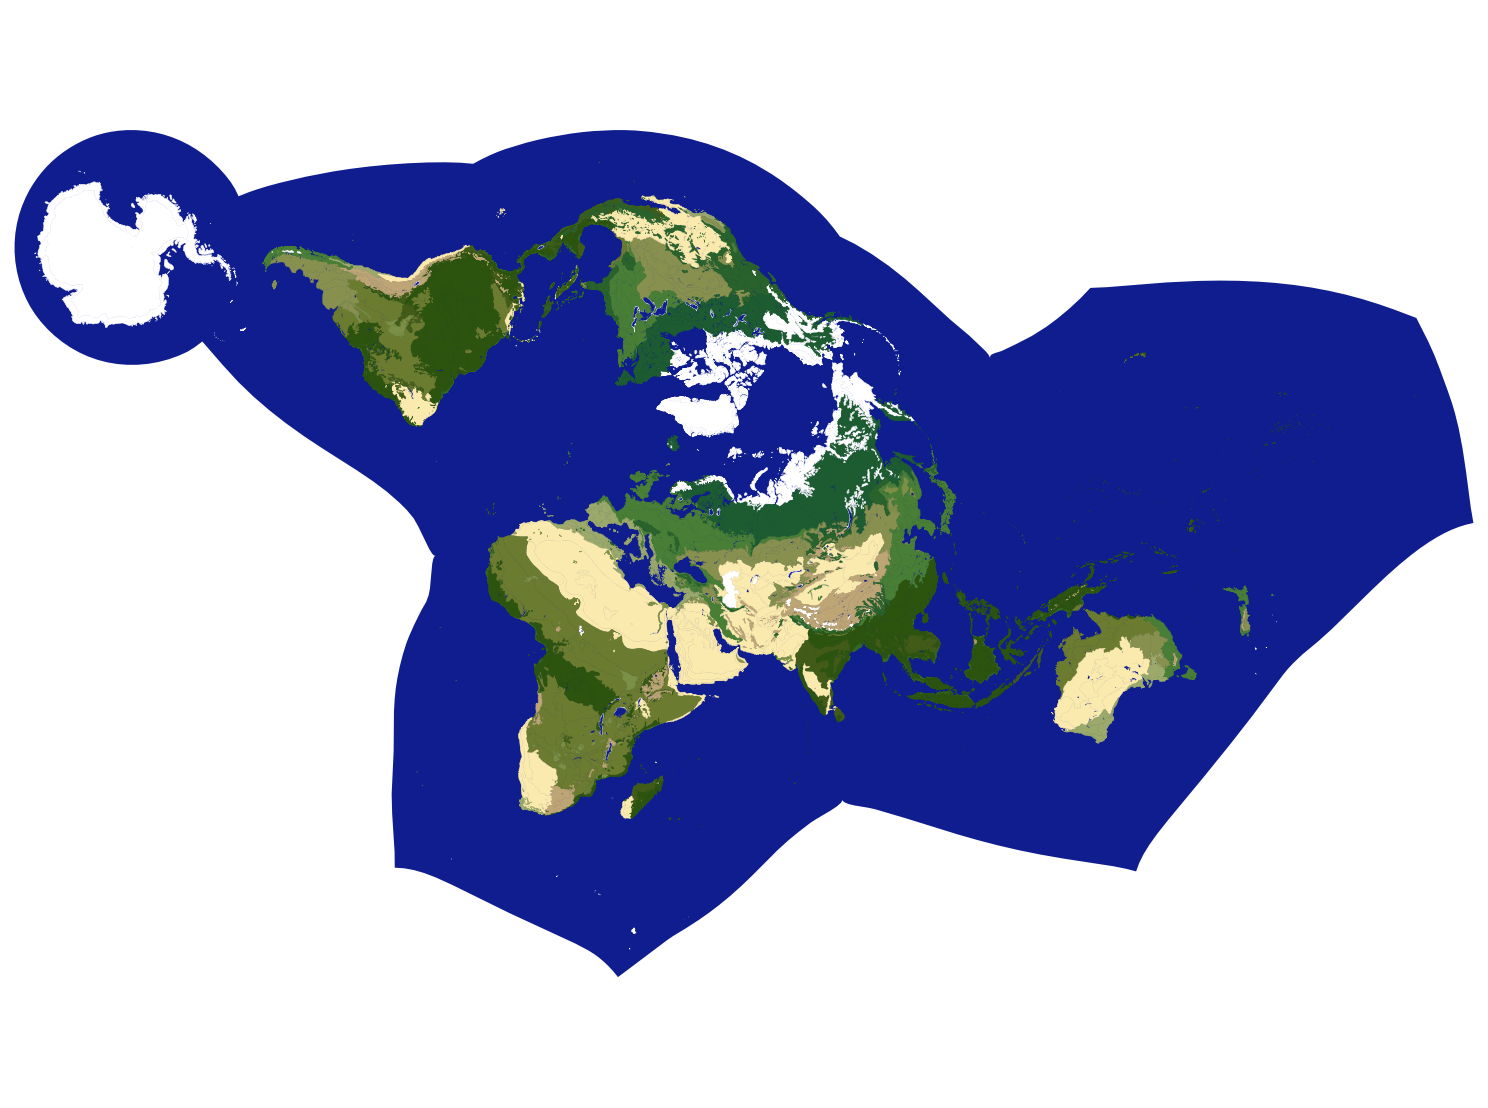
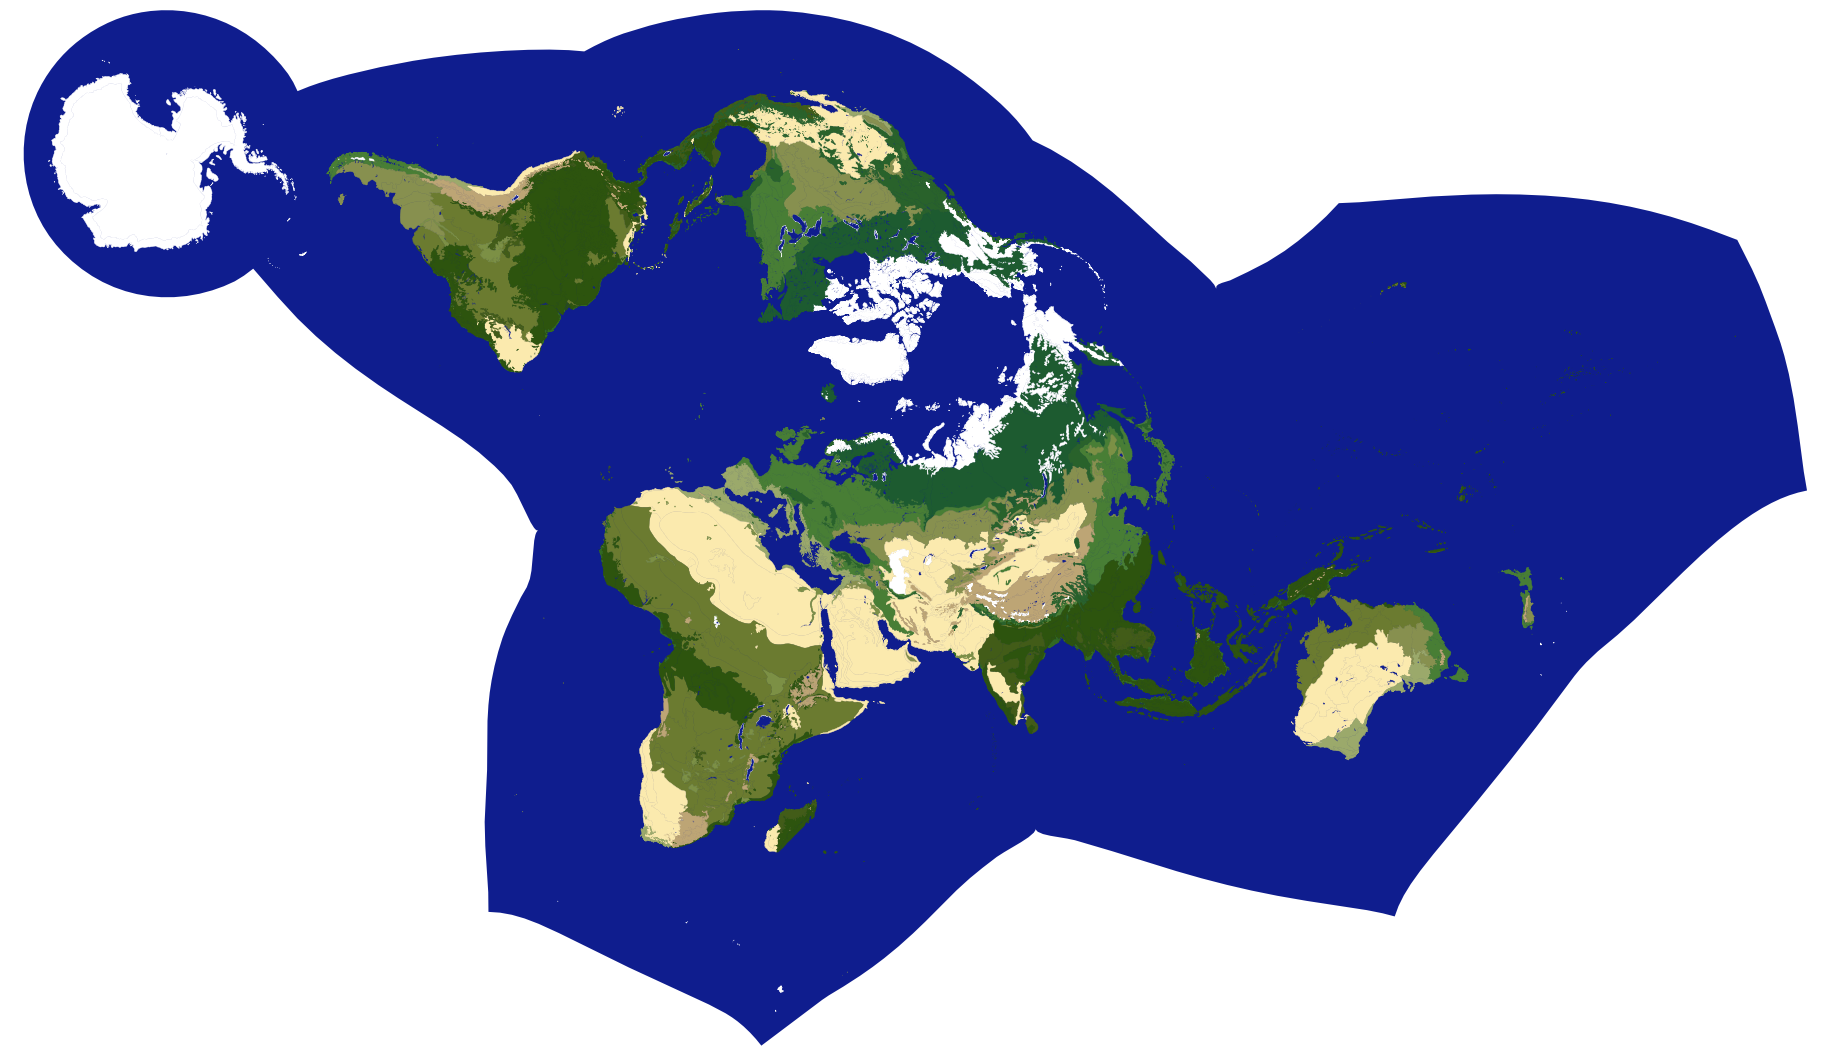
example plots with better aspect ratios

Changed region(s): [[0.0, 0.0, 0.9892, 1.0], [0.9583, 0.4688, 0.9892, 0.5], [0.2782, 0.4688, 0.3091, 0.5]]

diff --git a/src/elastik.py b/src/elastik.py
@@ -7,7 +7,7 @@ everything you need to load the mesh files and project data onto them.
 """
 from __future__ import annotations
 
-from math import nan
+from math import nan, sqrt
 from typing import Any, Optional
 
 import h5py
@@ -180,9 +180,9 @@ def create_map(name: str, projection: str,
 	    :param border_style: the Style for the line drawn around the complete map area
 	    :param data: a list of elements to include in the map
 	"""
-	sections, border = load_elastik_projection(projection)
+	sections, border, aspect_ratio = load_elastik_projection(projection)
 
-	fig = plt.figure(name)
+	fig = plt.figure(name, figsize=(6*sqrt(aspect_ratio), 6/sqrt(aspect_ratio)))
 	ax = fig.subplots()
 
 	ax.fill(border["x"], border["y"], edgecolor="none", **background_style)
@@ -365,7 +365,7 @@ def project(features: list[ΦΛFeature], projection: list[Section]) -> list[XYFe
 	return projected_features
 
 
-def load_elastik_projection(name: str) -> tuple[list[Section], XYLine]:
+def load_elastik_projection(name: str) -> tuple[list[Section], XYLine, float]:
 	""" load the hdf5 file that defines an elastik projection
 	    :param name: one of "elastic-earth-I", "elastic-earth-II", or "elastic-earth-III"
 	    :return: the list of sections that comprise this projection, and the map’s full projected outer shape
@@ -379,7 +379,9 @@ def load_elastik_projection(name: str) -> tuple[list[Section], XYLine]:
 			                        file[f"section {h}/border"][:],
 			                        ))
 		border = file["projected border"][:]
-	return sections, border
+		aspect_ratio = (file["bounding box"]["x"][1] - file["bounding box"]["x"][0])/ \
+		               (file["bounding box"]["y"][1] - file["bounding box"]["y"][0])
+	return sections, border, aspect_ratio
 
 
 class Section:
